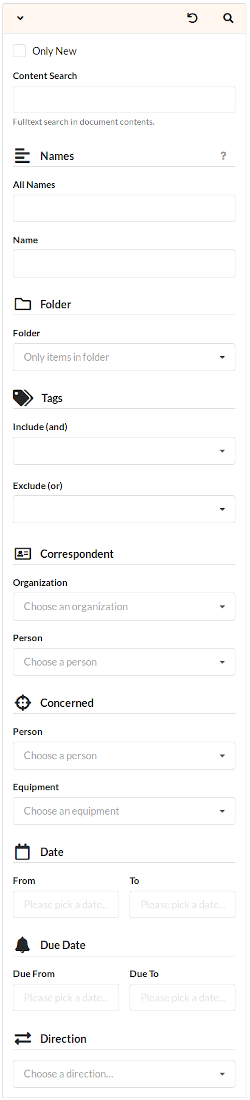
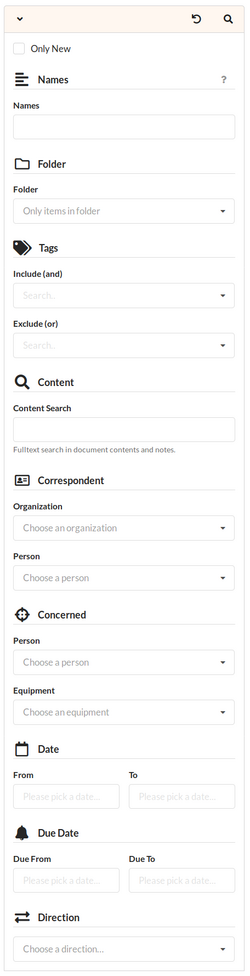
Update documentation

diff --git a/website/site/templates/shortcodes/imgright.html b/website/site/templates/shortcodes/imgright.html
@@ -1,3 +1,3 @@
 {% set len = page.components | length %}
 {% set p = page.components | slice(end=len - 1) | join(sep='/') %}
-<img style="float:right;" src="{{ get_url(path=p  ~ "/" ~ file) }}">
+<img style="float:right; padding-left:0.25em;" src="{{ get_url(path=p  ~ "/" ~ file) }}">

diff --git a/website/site/templates/shortcodes/infobubble.html b/website/site/templates/shortcodes/infobubble.html
@@ -1,0 +1,10 @@
+<div class="notification is-{{ mode }} is-light" style="z-index: -1">
+    <div class="content ">
+        <p class="title is-5">
+            {{ title }}
+        </p>
+        <div>
+            {{ body | markdown | safe }}
+        </div>
+    </div>
+</div>

diff --git a/website/site/content/docs/webapp/finding.md b/website/site/content/docs/webapp/finding.md
@@ -18,34 +18,23 @@ is visible. You can switch between them without affecting the results.
 
 {{ imgright(file="search-bar.png") }}
 
-By default, the search bar is shown. It provides a refined view of the
-search menu. The dropdown contains different options to do a quick
-search.
+By default, the search bar is shown. It provides a shortcut to search
+for names and a mode for fulltext-only search. The dropdown contains
+the different options.
 
-## *All Names* and *Contents*
+## The *Names* option {#names}
 
-These two options correspond to the same named field in the search
-menu. If you switch between search menu and search bar (by clicking
-the icon on the left), you'll see that they are the same fields.
-Typing in the search bar also fills the corresponding field in the
-search menu (and vice versa).
+This option corresponds to the same named field in the search menu. If
+you switch between search menu and search bar (by clicking the icon on
+the left), you'll see that they are the same fields. Typing in the
+search bar also fills the corresponding field in the search menu (and
+vice versa).
 
-- The *All Names* searches in the item name, item notes, names of
-  correspondent organization and person, and names of concering person
-  and equipment. It uses a simple substring search.
-- The option *Contents* searches the contents of all attachments
-  (documents), attachment names, the item name and item notes. It uses
-  full text search. However, it does not search the names of attached
-  meta data.
-
-When searching with one of these fields active, it simply submits the
-(hidden) search menu. So if the menu has other fields filled out, they
-will affect the result, too. Using one of these fields, the bar is
-just a reduced view of the search menu.
-
-So you can choose tags or correspondents in the search menu and
-further restrict the results using full text search. The results will
-be returned sorted by the item date, newest first.
+The *Names* searches in the item name, names of correspondent
+organization and person, and names of concering person and equipment.
+It uses a simple substring search. When searching with this option
+active, it simply submits the (hidden) search menu. So if the menu has
+other fields filled out, they will affect the result, too.
 
 If the left button in the search bar shows a little blue bubble, it
 means that there are more search fields filled out in the search menu
@@ -54,10 +43,10 @@ restricted by the search term given in the search-bar, but also by
 what is specified in the search menu.
 
 
-## *Contents Only*
+## The *Contents Only* option {#contents-only}
 
 This option has no corresponding part in the search menu. Searching
-with this option active, there is only a full text search done in the
+with this option active, there is a full text search done in:
 attachments contents, attachment names, item name and item notes.
 
 The results are not ordered by item date, but by relevance with
@@ -80,10 +69,8 @@ looked at are marked as "new" automatically.
 
 ## Names
 
-Searches in names of certain properties. The `All Names` field is the
-same as the search in the search bar (see above).
-
-The `Name` field only searches in the name property of an item.
+Searches in names of certain properties. The `Names` field is the same
+as the search in the search bar ([see above](#names)).
 
 ## Folder
 
@@ -99,6 +86,22 @@ included in the results.
 
 When adding tags to the "Exclude" list, then an item is removed from
 the results if it has at least one of these tags.
+
+## Content
+
+You can choose tags or correspondents in the search menu and further
+restrict the results using full text search using the *content* field.
+
+{% infobubble(mode="warning", title="Please note") %}
+This field is intended to be used in conjunction with other fields in
+the search menu. It *may be really slow* if used alone, since first
+the database query is executed and its results are furhter constrained
+by fulltext search.
+
+Use the search-bar with option *Contents Only* to do quick fulltext
+searches.
+{% end %}
+
 
 ## Correspondent
 
